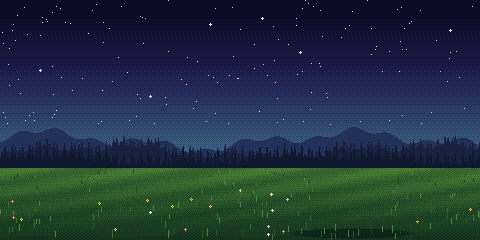
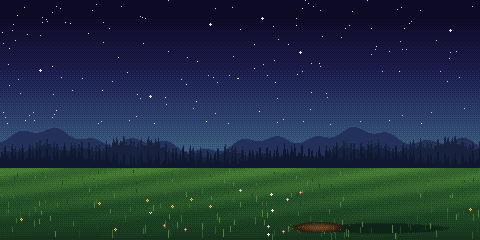
Title screen: the yeti kneels side-on digging through the grass (busy, ignoring the viewer), clods flying, tall grass in front, fireflies; feature graphic to match
Claude-Session: https://claude.ai/code/session_01JpLHzsYAvEKzmccr94t7N9

diff --git a/android/app/src/main/java/app/foxbox/ui/ProjectScreen.kt b/android/app/src/main/java/app/foxbox/ui/ProjectScreen.kt
@@ -35,25 +35,28 @@ class ProjectScreen(c: Context, private val onOpen: (Project) -> Unit, private v
     private val headP = Px.text(34f, Pal.ORANGE, headFont = true)
     private val shine = intArrayOf(0xFFFFF4D6.toInt(), 0xFFFFD27A.toInt(), 0xFFF4A259.toInt(), 0xFFE8742C.toInt(), 0xFFB8521B.toInt())
 
-    // ---- the title scene: a starlit clearing where the yeti reaches up to catch fireflies (pixel art, played back as frames)
+    // ---- the title scene: a starlit clearing where the yeti kneels, turned away, digging through the grass
+    //      (pixel art, played back as frames; he pays the viewer no mind)
     private fun img(name: String) = context.assets.open("images/$name").use { android.graphics.BitmapFactory.decodeStream(it) }
     private val bg = img("title_bg.png")
+    private val fg = img("title_fg.png")
     private val sheet = img("yeti_frames.png")
-    private val blink = img("yeti_blink.png")
     private val anim = org.json.JSONObject(context.assets.open("images/yeti_anim.json").use { String(it.readBytes()) })
     private val frames = anim.getInt("frames"); private val fw = anim.getInt("w"); private val fh = anim.getInt("h")
     private val fx = anim.getInt("x"); private val fy = anim.getInt("y")
-    private val hands = anim.getJSONArray("hands").let { a -> Array(a.length()) { i -> a.getJSONArray(i).let { floatArrayOf(it.getDouble(0).toFloat(), it.getDouble(1).toFloat()) } } }
+    private val dig = anim.getJSONArray("dig").let { floatArrayOf(it.getDouble(0).toFloat(), it.getDouble(1).toFloat()) }
     private val pixel = Paint().apply { isFilterBitmap = false; isAntiAlias = false }
-    private val glow = Paint()
+    private val dot = Paint()
     private val src = android.graphics.Rect(); private val dst = android.graphics.RectF()
     private val t0 = System.nanoTime()
-    /** Fireflies: centre, orbit radii, speed and phase, in scene pixels. The first one is the one he reaches for. */
+    /** Fireflies: centre, orbit radii, speed and phase, in scene pixels. */
     private val bugs = arrayOf(
-        floatArrayOf(388f, 34f, 22f, 10f, 0.9f, 0f), floatArrayOf(300f, 120f, 30f, 14f, 0.6f, 1.3f), floatArrayOf(440f, 110f, 18f, 22f, 0.7f, 2.1f),
-        floatArrayOf(210f, 150f, 40f, 12f, 0.5f, 0.4f), floatArrayOf(120f, 130f, 30f, 18f, 0.8f, 3.0f), floatArrayOf(470f, 60f, 14f, 20f, 0.65f, 4.2f),
-        floatArrayOf(60f, 165f, 26f, 10f, 0.75f, 5.1f),
+        floatArrayOf(330f, 120f, 34f, 14f, 0.5f, 0f), floatArrayOf(420f, 90f, 26f, 18f, 0.6f, 1.3f), floatArrayOf(250f, 150f, 30f, 12f, 0.45f, 2.1f),
+        floatArrayOf(180f, 110f, 40f, 14f, 0.5f, 0.4f), floatArrayOf(90f, 140f, 30f, 18f, 0.7f, 3.0f), floatArrayOf(460f, 150f, 14f, 20f, 0.55f, 4.2f),
+        floatArrayOf(40f, 175f, 26f, 10f, 0.6f, 5.1f), floatArrayOf(300f, 60f, 22f, 12f, 0.4f, 2.7f),
     )
+    private val DIRT = intArrayOf(0xFF3E2816.toInt(), 0xFF5A3A20.toInt(), 0xFF7A5230.toInt(), 0xFF4F8436.toInt(), 0xFF3C6E30.toInt())
+    private fun hash(n: Int): Float { var x = n * 374761393 + 668265263; x = (x xor (x ushr 13)) * 1274126177; return ((x xor (x ushr 16)) and 0xFFFF) / 65535f }
 
     override fun onDraw(c: Canvas) {
         val w = width.toFloat(); val h = height.toFloat()
@@ -64,23 +67,41 @@ class ProjectScreen(c: Context, private val onOpen: (Project) -> Unit, private v
         val left = bg.width - sw; val top = (bg.height - sh) / 2
         src.set(left, top, left + sw, top + sh); dst.set(0f, 0f, w, h)
         c.drawBitmap(bg, src, dst, pixel)
-        fun at(sx: Float, sy: Float, bmp: android.graphics.Bitmap, sr: android.graphics.Rect) {
-            dst.set((sx - left) * k, (sy - top) * k, (sx - left + sr.width()) * k, (sy - top + sr.height()) * k); c.drawBitmap(bmp, sr, dst, pixel)
-        }
-        // reach up, hold a moment with the firefly, come back down (about 4 s a cycle)
-        val cyc = (t / 4.2f) % 1f
-        val reach = (1.35f * (0.5f - 0.5f * kotlin.math.cos(2 * Math.PI.toFloat() * cyc))).coerceAtMost(1f)
+        fun sx(x: Float) = (x - left) * k
+        fun sy(y: Float) = (y - top) * k
+        // Dig, dig, dig, then a short rest looking at the hole: scoops of about 1.3 s.
+        val period = 1.3f
+        val cycle = (t / period).toInt(); val p = (t / period) % 1f
+        val resting = cycle % 5 == 4
+        val reach = if (resting) 0f else 0.5f - 0.5f * kotlin.math.cos(2 * Math.PI.toFloat() * p)
         val f = (reach * (frames - 1) + 0.5f).toInt().coerceIn(0, frames - 1)
-        src.set(f * fw, 0, (f + 1) * fw, fh); at(fx.toFloat(), fy.toFloat(), sheet, src)
-        if ((t % 3.7f) < 0.14f) { src.set(0, 0, fw, fh); at(fx.toFloat(), fy.toFloat(), blink, src) }
-        // fireflies: soft pulsing lights; the first drifts down into his raised hand
-        for ((i, b) in bugs.withIndex()) {
-            var x = b[0] + b[2] * kotlin.math.sin(t * b[4] + b[5]); var y = b[1] + b[3] * kotlin.math.sin(t * b[4] * 1.7f + b[5] * 2f)
-            if (i == 0) { val hp = hands[f]; val g = reach * reach * reach; x += (hp[0] - x) * g; y += (hp[1] - 3f - y) * g }
+        src.set(f * fw, 0, (f + 1) * fw, fh)
+        dst.set(sx(fx.toFloat()), sy(fy.toFloat()), sx((fx + fw).toFloat()), sy((fy + fh).toFloat())); c.drawBitmap(sheet, src, dst, pixel)
+        // Clods of earth and bits of grass fly back over his shoulder at the bottom of each scoop.
+        for (back in 0..1) {
+            val cc = cycle - back
+            if (cc < 0 || cc % 5 == 4) continue
+            val age = t - (cc + 0.55f) * period
+            if (age < 0f || age > 1.1f) continue
+            for (j in 0 until 7) {
+                val r1 = hash(cc * 31 + j); val r2 = hash(cc * 57 + j * 7); val r3 = hash(cc * 13 + j * 3)
+                val vx = 38f + 60f * r1; val vy = -70f - 55f * r2
+                val x = dig[0] + (r3 - 0.5f) * 10f + vx * age; val y = dig[1] + vy * age + 160f * age * age
+                if (y > dig[1] + 4f) continue
+                dot.color = DIRT[(r1 * 4.99f).toInt()]
+                val sz = if (j % 3 == 0) 2 else 1
+                c.drawRect(sx(x.toInt().toFloat()), sy(y.toInt().toFloat()), sx(x.toInt().toFloat() + sz), sy(y.toInt().toFloat() + sz), dot)
+            }
+        }
+        // tall grass in front of his knees
+        src.set(left, top, left + sw, top + sh); dst.set(0f, 0f, w, h); c.drawBitmap(fg, src, dst, pixel)
+        // fireflies drifting and pulsing around the clearing
+        for (b in bugs) {
+            val x = b[0] + b[2] * kotlin.math.sin(t * b[4] + b[5]); val y = b[1] + b[3] * kotlin.math.sin(t * b[4] * 1.7f + b[5] * 2f)
             val pulse = 0.55f + 0.45f * kotlin.math.sin(t * 3.1f + b[5] * 5f)
-            val px = ((x.toInt() - left) * k); val py = ((y.toInt() - top) * k)
-            glow.color = Pal.alpha(0xFFE8FF8A.toInt(), 0.35f * pulse); c.drawRect(px - k, py - k, px + 2 * k, py + 2 * k, glow)
-            glow.color = Pal.alpha(0xFFF6FF9A.toInt(), 0.6f + 0.4f * pulse); c.drawRect(px, py, px + k, py + k, glow)
+            val px = sx(x.toInt().toFloat()); val py = sy(y.toInt().toFloat())
+            dot.color = Pal.alpha(0xFFE8FF8A.toInt(), 0.35f * pulse); c.drawRect(px - k, py - k, px + 2 * k, py + 2 * k, dot)
+            dot.color = Pal.alpha(0xFFF6FF9A.toInt(), 0.6f + 0.4f * pulse); c.drawRect(px, py, px + k, py + k, dot)
         }
         headP.textAlign = Paint.Align.LEFT
         snesTitle(c, "5 EYE YETI", Px.dp(28f), Px.dp(64f))

diff --git a/android/play/concepts/pixel/yeti_dig.py b/android/play/concepts/pixel/yeti_dig.py
@@ -1,0 +1,130 @@
+"""5 Eye Yeti title animation: a starlit clearing (no moon) where the yeti kneels,
+turned away to the side, digging through the grass, busy and paying the viewer no mind.
+Pixel-art frames the project screen plays back. Writes title_bg.png, title_fg.png,
+yeti_frames.png and yeti_anim.json into OUT."""
+import sys, math, random, json, os
+sys.path.insert(0, '.')
+from PIL import Image
+import numpy as np
+import siderig
+import render as R
+
+OUT = sys.argv[1]
+W, H = 480, 240
+rnd = random.Random(9)
+B4, hx = R.B4, R.hx
+
+# ---------------- background
+sc = np.zeros((H, W, 3), np.uint8)
+SKY = [hx(c) for c in ('#0c0a24', '#141236', '#1c1c4a', '#26305e', '#2f4670', '#3b5f7c', '#4c7a86')]
+for y in range(H):
+    t = y / 165 * (len(SKY) - 1)
+    for x in range(W): sc[y, x] = SKY[int(np.clip(t + B4[y % 4, x % 4], 0, len(SKY) - 1))]
+for _ in range(150):
+    x, y = rnd.randrange(W), rnd.randrange(125)
+    sc[y, x] = hx('#c8d0f0') if rnd.random() < 0.7 else hx('#fff4c0')
+for (x, y) in ((40, 70), (210, 24), (450, 30), (150, 96), (300, 52), (262, 18)):
+    for dx, dy in ((0, 0), (1, 0), (-1, 0), (0, 1), (0, -1)): sc[y + dy, x + dx] = hx('#e8ecff')
+def ridge(base, amp, seed_, col, top_col=None, jag=0):
+    rr = random.Random(seed_); ph = [rr.uniform(0, 6) for _ in range(4)]
+    for x in range(W):
+        h = base - amp * (0.5 * math.sin(x * 0.02 + ph[0]) + 0.3 * math.sin(x * 0.06 + ph[1]) + 0.2 * math.sin(x * 0.17 + ph[2]))
+        if jag: h -= jag * abs(math.sin(x * 0.9 + ph[3]) * math.sin(x * 0.37))
+        for y in range(int(h), H): sc[y, x] = col
+        if top_col is not None and 0 <= int(h) < H: sc[int(h), x] = top_col
+ridge(140, 14, 1, hx('#22305a'), hx('#34507a'))
+ridge(152, 10, 2, hx('#18213e'), hx('#2a3c62'), jag=9)
+ridge(162, 6, 3, hx('#101830'), None, jag=14)
+GRASS = [hx(c) for c in ('#0e2418', '#16341e', '#1f4624', '#2c5a2a', '#3c6e30', '#4f8436')]
+for y in range(168, H):
+    t = (y - 168) / (H - 168)
+    for x in range(W):
+        k = 4.6 - t * 3.2 + B4[y % 4, x % 4] * 1.2 + 0.6 * math.sin(x * 0.05 + y * 0.3) * (1 - t)
+        sc[y, x] = GRASS[int(np.clip(k, 0, 5))]
+bg = Image.fromarray(sc); px = bg.load()
+FEET, BODYX = 228, 380
+for y in range(FEET - 6, FEET + 6):
+    for x in range(BODYX - 80, BODYX + 80):
+        if ((x - BODYX) / 66) ** 2 + ((y - FEET) / 5) ** 2 < 1 + B4[y % 4, x % 4] * 0.4: px[x, y] = GRASS[0]
+for _ in range(26):
+    x = rnd.randrange(8, W - 8); y = rnd.randrange(182, H - 4)
+    if abs(x - BODYX) < 60: continue
+    pc = rnd.choice((hx('#e86a8a'), hx('#f2d65a'), hx('#c8b8ff'), hx('#ffffff')))
+    px[x, y + 1] = GRASS[4]; px[x, y + 2] = GRASS[3]
+    for dx, dy in ((0, -1), (-1, 0), (1, 0), (0, 1)): px[x + dx, y + dy] = pc
+    px[x, y] = hx('#ffd84a') if pc != hx('#f2d65a') else hx('#b4561a')
+for _ in range(240):
+    x = rnd.randrange(W); y = rnd.randrange(172, H)
+    if abs(x - BODYX) < 34 and y < FEET - 6: continue
+    h = 2 + int((y - 168) / 16) + rnd.randrange(3)
+    col = GRASS[min(5, 3 + rnd.randrange(3))] if rnd.random() < 0.7 else GRASS[2]
+    for k3 in range(h):
+        if 0 <= y - k3 < H: px[x, y - k3] = col
+DIRT = [hx(c) for c in ('#2a1a10', '#3e2816', '#5a3a20', '#7a5230')]
+DIGX = BODYX - 62
+for y in range(FEET - 7, FEET + 5):
+    for x in range(DIGX - 26, DIGX + 26):
+        e = ((x - DIGX) / 25) ** 2 + ((y - FEET + 1) / 5.5) ** 2
+        if e < 1 + B4[y % 4, x % 4] * 0.5:
+            px[x, y] = DIRT[int(np.clip((1 - e) * 3 + B4[y % 4, x % 4], 0, 3))]
+for _ in range(30):   # loose clods around the hole
+    x = DIGX + rnd.randrange(-34, 34); y = FEET + rnd.randrange(-6, 6)
+    px[x, y] = DIRT[rnd.randrange(1, 4)]
+bg.save(os.path.join(OUT, 'title_bg.png'))
+
+
+# ---------------- frames: bent over, scooping with the near arm, a slight bob of the back
+K = 270 / 1112
+N = 6
+frames = []
+for i in range(N):
+    t = i / (N - 1)
+    e = 0.5 - 0.5 * math.cos(math.pi * t)
+    im, off = siderig.pose(34 + 4 * e, -5 - 42 * e, -75, 165)
+    TH = round(im.height * K)
+    spr = R.snes_creature(im, TH)
+    k = spr.width / im.width
+    frames.append((spr, off, k))
+# line the frames up on the hip (side.png coords 235, 610) and put the lowest point on the ground
+HIPX, HIPY = BODYX + 6, None
+cells = []
+for spr, off, k in frames:
+    hx_ = (235 + off[0]) * k; hy_ = (610 + off[1]) * k
+    cells.append((spr, hx_, hy_))
+ground_off = cells[0][0].height - cells[0][2]   # the body's lowest point (first frame) sits on the ground
+HIPY = FEET + 4 - ground_off
+placed = [(spr, int(round(BODYX - hx_)), int(round(HIPY - hy_))) for spr, hx_, hy_ in cells]
+fx0 = min(p[1] for p in placed); fy0 = min(p[2] for p in placed)
+fx1 = max(p[1] + p[0].width for p in placed); fy1 = max(p[2] + p[0].height for p in placed)
+FW, FH = fx1 - fx0, fy1 - fy0
+sheet = Image.new('RGBA', (FW * N, FH), (0, 0, 0, 0))
+hands = []
+for i, (spr, x, y) in enumerate(placed):
+    cell = Image.new('RGBA', (FW, FH), (0, 0, 0, 0)); cell.paste(spr, (x - fx0, y - fy0), spr)
+    ca = np.asarray(cell).copy(); gy = FEET + 3 - fy0
+    if gy < FH: ca[gy:, :, 3] = 0
+    cell = Image.fromarray(ca)
+    sheet.paste(cell, (i * FW, 0))
+    a = np.asarray(cell)[..., 3] > 0
+    # the digging hand: lowest point in the front (left) half
+    ys, xs = np.nonzero(a); j = int(np.argmax(ys * 4 - xs * 0.2))
+    hands.append([int(xs[j] + fx0), int(ys[j] + fy0)])
+sheet.save(os.path.join(OUT, 'yeti_frames.png'))
+
+# ---------------- foreground: tall grass in front of his knees and the near edge of the hole
+fg = Image.new('RGBA', (W, H), (0, 0, 0, 0)); fp = fg.load()
+for _ in range(170):
+    x = BODYX + rnd.randrange(-100, 80); base = FEET + rnd.randrange(1, 9)
+    h = rnd.randrange(6, 20) if x > BODYX - 40 else rnd.randrange(4, 11)
+    lean = rnd.choice((-1, 0, 0, 1))
+    col = GRASS[rnd.choice((3, 4, 5, 5))]
+    for k3 in range(h):
+        xx = x + (lean * (k3 // 4)); yy = base - k3
+        if 0 <= xx < W and 0 <= yy < H: fp[xx, yy] = (*col, 255)
+fg.save(os.path.join(OUT, 'title_fg.png'))
+json.dump({'frames': N, 'w': FW, 'h': FH, 'x': fx0, 'y': fy0, 'hands': hands, 'dig': [DIGX, FEET - 2]}, open(os.path.join(OUT, 'yeti_anim.json'), 'w'))
+prev = bg.convert('RGBA')
+for f in (0, N - 1):
+    b = bg.convert('RGBA'); c = sheet.crop((f * FW, 0, (f + 1) * FW, FH)); b.alpha_composite(c, (fx0, fy0)); b.alpha_composite(fg)
+    b.crop((240, 40, 480, 240)).resize((720, 600), Image.NEAREST).save(f'dig-{f}.png')
+print('ok', N, FW, FH, fx0, fy0, hands)

diff --git a/android/play/concepts/pixel/siderig.py b/android/play/concepts/pixel/siderig.py
@@ -1,0 +1,50 @@
+"""Side-view rig of the yeti (from the profile screenshot): torso bends at the hip,
+the near arm swings at the shoulder, legs bend at hip and knee. Facing left."""
+import math, sys
+from PIL import Image, ImageDraw, ImageChops, ImageFilter
+import numpy as np
+
+base = Image.open('side.png')
+PAD = 500
+CW, CH = base.width + 2 * PAD, base.height + 2 * PAD
+def P(x, y): return (x + PAD, y + PAD)
+full = Image.new('RGBA', (CW, CH)); full.paste(base, (PAD, PAD))
+def poly(pts):
+    m = Image.new('L', (CW, CH), 0); ImageDraw.Draw(m).polygon([P(*p) for p in pts], fill=255); return m
+def masked(im, m):
+    o = im.copy(); o.putalpha(ImageChops.multiply(im.getchannel('A'), m)); return o
+def rot(im, ang, piv): return im.rotate(ang, resample=Image.BICUBIC, center=P(*piv))
+def disc(c, r):
+    m = Image.new('L', (CW, CH), 0); x, y = P(*c); ImageDraw.Draw(m).ellipse([x - r, y - r, x + r, y + r], fill=255); return m
+
+HIP, KNEE, SHOULDER = (235, 610), (205, 880), (195, 320)
+ARM = [(150, 300), (240, 290), (255, 470), (280, 620), (282, 765), (212, 770), (198, 620), (160, 470)]
+TORSO = [(-50, -50), (450, -50), (450, 640), (-50, 640)]
+THIGH = [(-50, 600), (450, 600), (450, 885), (-50, 885)]
+SHIN = [(-50, 870), (450, 870), (450, 1200), (-50, 1200)]
+armL = masked(full, poly(ARM))
+torsoL = masked(full, poly(TORSO))
+thighL = masked(full, poly(THIGH))
+shinL = masked(full, poly(SHIN))
+hipJ = masked(full, disc(HIP, 95)); kneeJ = masked(full, disc(KNEE, 70))
+# the arm left on the body reads as the far arm: shade it a touch darker
+far = masked(full, poly(ARM)); far = Image.eval(far.convert('RGBA'), lambda v: v)
+fa = np.asarray(far).astype(float); fa[..., :3] *= 0.8; far = Image.fromarray(fa.astype(np.uint8))
+
+def pose(torso, arm, thigh, shin):
+    """Angles in degrees (PIL sense, + = counter-clockwise: for a figure facing left, + bends forward)."""
+    out = Image.new('RGBA', (CW, CH))
+    # far arm (darker), behind everything, swinging opposite to the near arm
+    out.alpha_composite(rot(rot(shinL, shin, KNEE), thigh, HIP))
+    out.alpha_composite(rot(rot(kneeJ, 0, KNEE), thigh, HIP))
+    out.alpha_composite(rot(thighL, thigh, HIP))
+    out.alpha_composite(rot(torsoL, torso, HIP))
+    out.alpha_composite(rot(hipJ, torso * 0.5, HIP))
+    out.alpha_composite(rot(rot(armL, arm, SHOULDER), torso, HIP))
+    bb = out.getbbox()
+    return out.crop(bb), (PAD - bb[0], PAD - bb[1])
+
+if __name__ == '__main__':
+    im, off = pose(float(sys.argv[1]), float(sys.argv[2]), float(sys.argv[3]), float(sys.argv[4]))
+    bg = Image.new('RGB', im.size, (20, 60, 20)); bg.paste(im, mask=im)
+    bg.resize((im.width // 2, im.height // 2)).save('side-pose.png'); print(im.size, off)

diff --git a/android/play/make_art.py b/android/play/make_art.py
@@ -1,7 +1,7 @@
 """Play Store graphics for 5 Eye Yeti (5IY).
 The app icon is built from the blue yeti line drawing (see concepts/icon.py);
 this script makes the 1024x500 feature graphic from the pixel-art title scene
-(the clearing and one frame of the yeti reaching for a firefly) with just the name.
+(the clearing and one frame of the yeti digging) with just the name.
 Run: python3 play/make_art.py"""
 import os
 from PIL import Image, ImageDraw, ImageFont
@@ -11,12 +11,10 @@ imgs = os.path.join(here, '..', 'app', 'src', 'main', 'assets', 'images')
 import json
 scene = Image.open(os.path.join(imgs, 'title_bg.png')).convert('RGBA')
 meta = json.load(open(os.path.join(imgs, 'yeti_anim.json')))
-f = meta['frames'] - 2   # the yeti reaching up
+f = meta['frames'] - 1   # the yeti, kneeling and turned away, with his hand down in the hole
 cell = Image.open(os.path.join(imgs, 'yeti_frames.png')).crop((f * meta['w'], 0, (f + 1) * meta['w'], meta['h']))
 scene.alpha_composite(cell, (meta['x'], meta['y']))
-hx, hy = meta['hands'][f]
-for dx, dy, col in ((0, -4, (246, 255, 154, 255)), (-1, -4, (232, 255, 138, 120)), (1, -4, (232, 255, 138, 120)), (0, -5, (232, 255, 138, 120)), (0, -3, (232, 255, 138, 120))):
-    scene.putpixel((hx + dx, hy + dy), col)
+scene.alpha_composite(Image.open(os.path.join(imgs, 'title_fg.png')).convert('RGBA'))
 scene = scene.convert('RGB')
 W, H = 1024, 500
 # scale the 480x240 scene by whole pixels (2x = 960x480), then mirror-extend the edges to 1024x500
